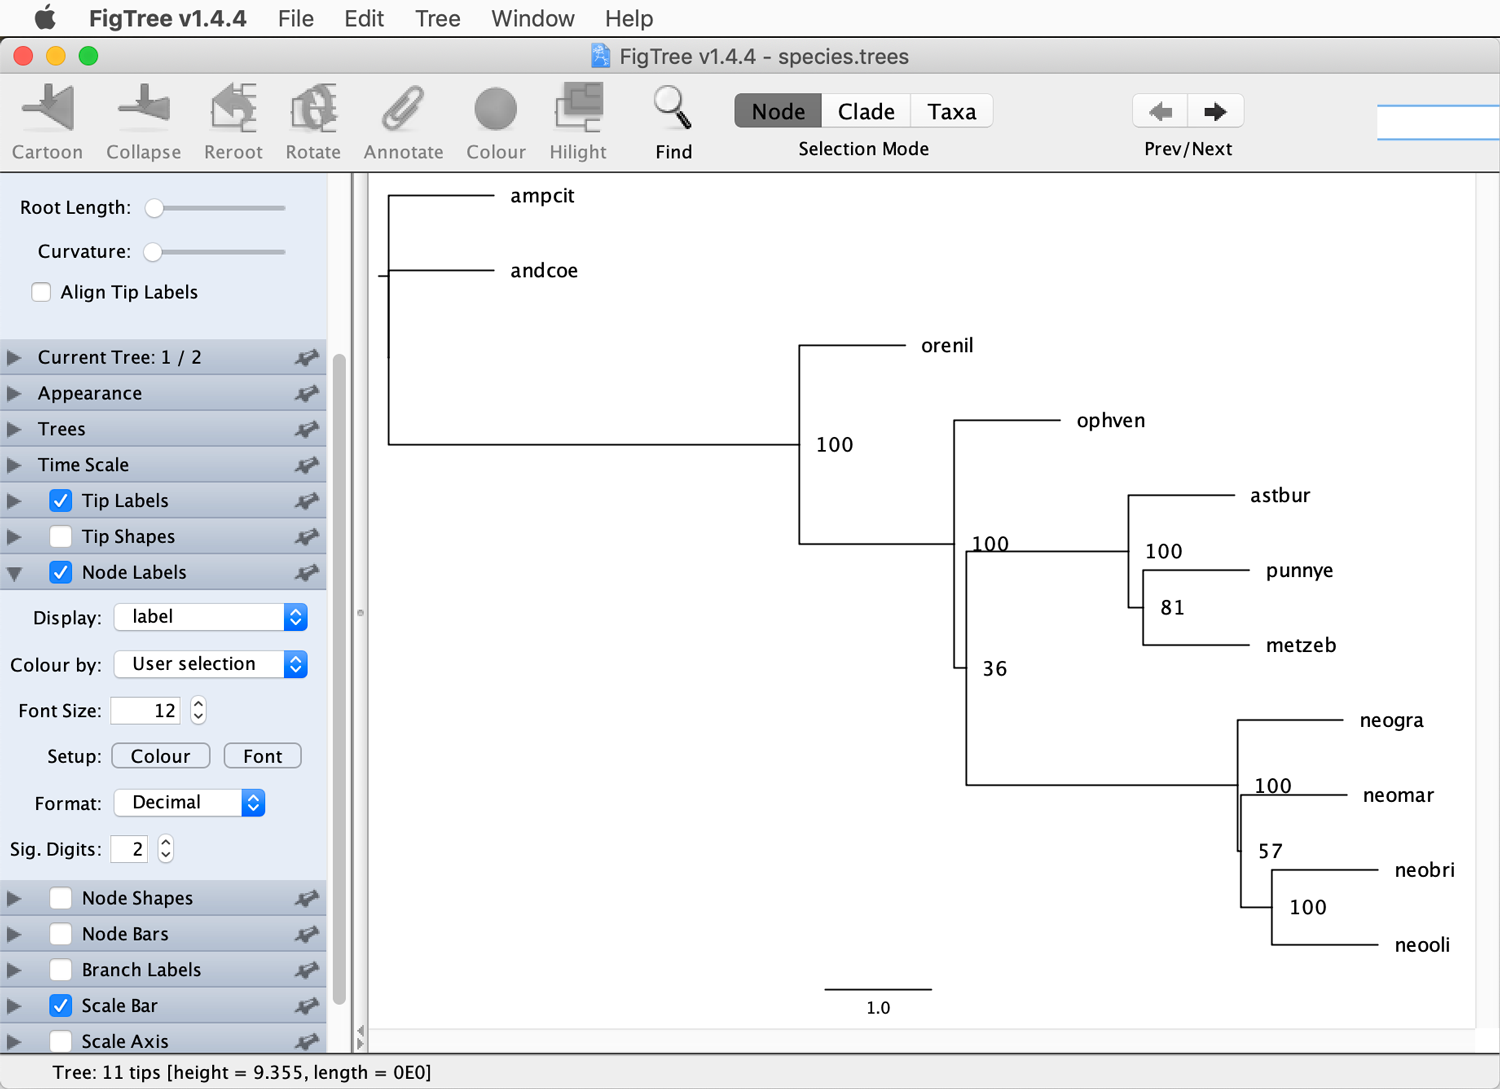
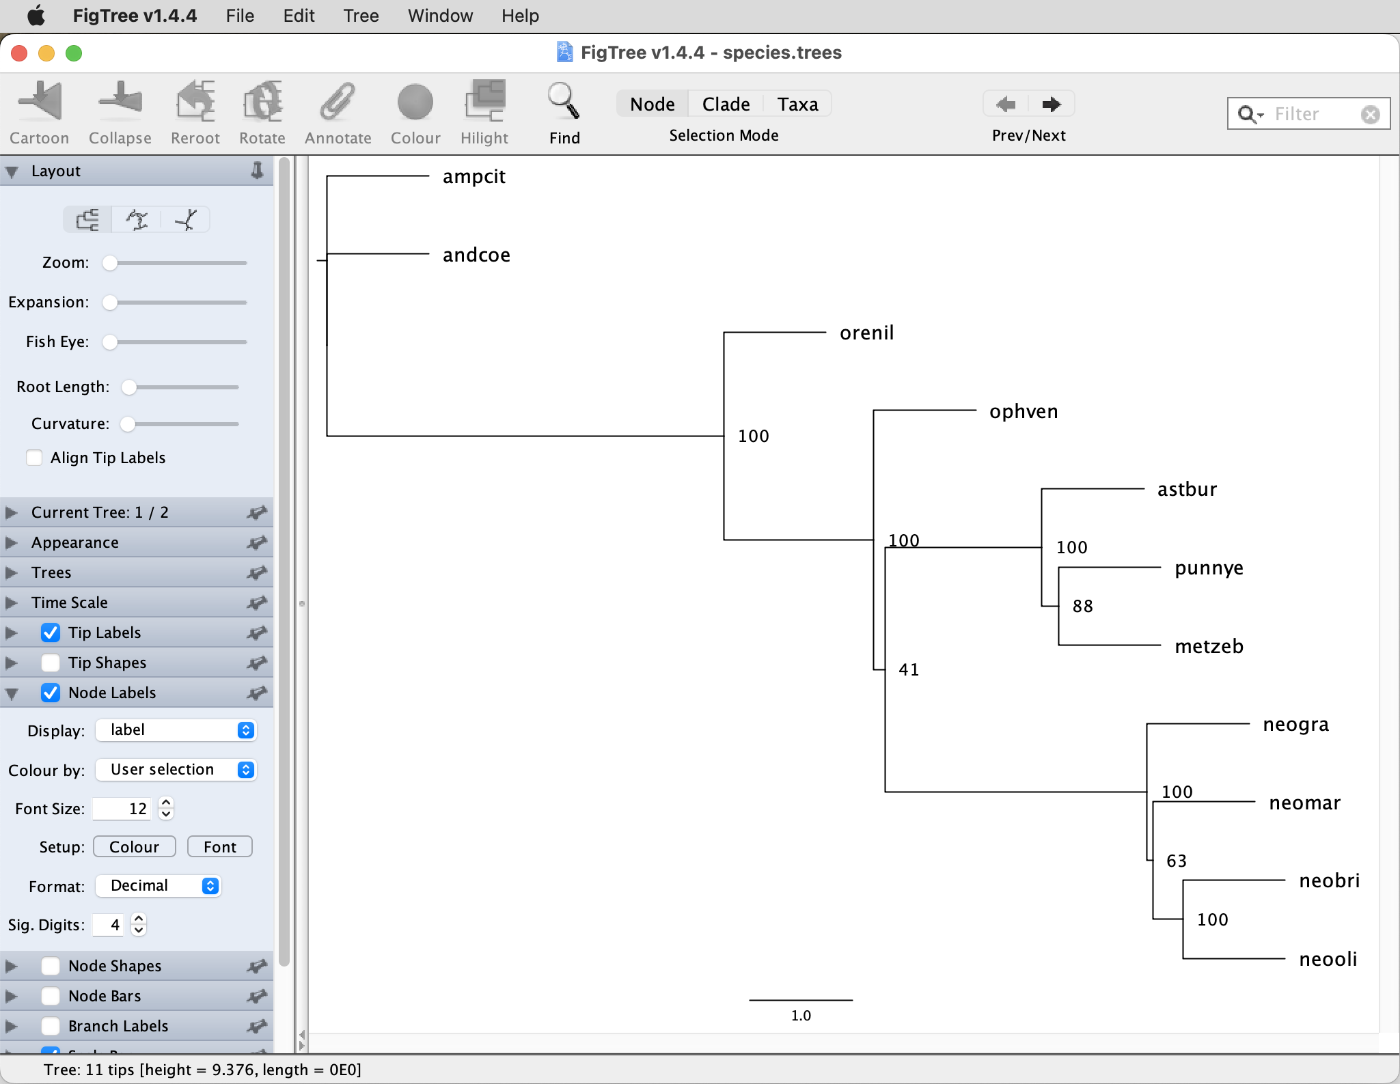
updated tutorial for ml species tree inference

diff --git a/ml_species_tree_inference/README.md b/ml_species_tree_inference/README.md
@@ -54,9 +54,9 @@ The following tool is required additionally:
 
 * **ASTRAL:** The program [ASTRAL](https://github.com/smirarab/ASTRAL) ([Zhang et al. 2017](https://doi.org/10.1007/978-3-319-67979-2_4)) allows efficient and accurate estimation of the species tree based on a set of gene trees. ASTRAL is not available as a module on Saga, but it can easily be installed simply by placing it in the analysis directory. This can be done with the following commands:
 
-		wget https://github.com/smirarab/ASTRAL/raw/master/Astral.5.7.7.zip
-		unzip Astral.5.7.7.zip
-		rm Astral.5.7.7.zip
+		wget https://github.com/smirarab/ASTRAL/raw/master/Astral.5.7.8.zip
+		unzip Astral.5.7.8.zip
+		rm Astral.5.7.8.zip
 		
 	To run ASTRAL, Java is required, and can be loaded with this command:
 	
@@ -65,7 +65,7 @@ The following tool is required additionally:
 		
 	The installation can be tested with this command, which should output the help text of ASTRAL:
 	
-		java -jar Astral/astral.5.7.7.jar
+		java -jar Astral/astral.5.7.8.jar
 
 
 <a name="iqtree"></a>
@@ -91,7 +91,7 @@ As input for the species-tree analyses with ASTRAL, sets of gene trees are requi
 		
 	**Question 1:** How many alignments contain information for *Ophthalmotilapia ventralis*? [(see answer)](#q1)
 
-Since IQ-TREE can not infer the phylogeny from an alignment in which one or more sequences consist only of missing data, we will need to remove the "ophven" sequence from all those alignments in which it contains no information. This means that *Ophthalmotilapia ventralis* will only be included in a subset of the gene trees generated with IQ-TREE; however, this will fortunately not be a problem for the species-tree inference because ASTRAL does not require that all gene trees contain the exact same set of taxa. To remove sequences that contain only missing information from all alignments, and at the same time translate all alignments into Nexus format, we can use the Python script `convert.py`.
+Since IQ-TREE cannot infer the phylogeny from an alignment in which one or more sequences consist only of missing data, we will need to remove the "ophven" sequence from all those alignments in which it contains no information. This means that *Ophthalmotilapia ventralis* will only be included in a subset of the gene trees generated with IQ-TREE; however, this will fortunately not be a problem for the species-tree inference because ASTRAL does not require that all gene trees contain the exact same set of taxa. To remove sequences that contain only missing information from all alignments, and at the same time translate all alignments into Nexus format, we can use the Python script `convert.py`.
 
 * Because the script `convert.py` was already used in the [Bayesian Phylogenetic  Inference](../bayesian_phylogeny_inference/README.md) tutorial, you probably have this script already. If not, download it from GitHub:
 
@@ -168,7 +168,7 @@ We can now use IQ-TREE to generate maximum-likelihood gene trees for all alignme
 <a name="astral"></a>
 ## Species-Tree Inference with ASTRAL
 
-ASTRAL infers the species tree by searching for the topology that agrees with the largest number of species quartets included in the set of gene trees. In addition, branch lengths are estimated in coalescent units based on the number of quartets that are in conflict with a branch of the species tree. Unlike concatenation, the species-tree approach of ASTRAL has been shown to be statistically consistent under the multi-species coalescent model ([Mirarab et al. 2014](https://doi.org/10.1093/bioinformatics/btu462)), meaning that its species-tree estimate is guaranteed to converge to the correct species tree with increasing size of the dataset. However, this statistical consistency is based on the assumption that gene-tree topologies are inferred without error, which may often not be the case. Thus, one might want to take uncertainty in the gene trees into account, which can be done with the sets of bootstrap trees for each gene. In this case, ASTRAL uses the maximum-likelihood trees to infer the species-tree topology and branch lengths, and additional analyses of the bootstrap trees are used to quantify node support as the proportions of these trees supporting a given node. However, newer versions of ASTRAL are also able to quantify node support completely without bootstrapped trees, based on the maximum-likelihood gene trees alone. Thus, uncertainty in the gene trees is then not taken into account at all. Nevertheless, according to the authors ([Sayyari and Mirarab 2016](https://doi.org/10.1093/molbev/msw079)), simulations have shown that this approach works just as well as or even better than the first approach based on bootstrapped trees. Here, we will test both approaches for quantifying node support with ASTRAL.
+ASTRAL infers the species tree by searching for the topology that agrees with the largest number of species quartets included in the set of gene trees. In addition, branch lengths are estimated in coalescent units based on the number of quartets that are in conflict with a branch of the species tree. Unlike concatenation, the species-tree approach of ASTRAL has been shown to be statistically consistent under the multi-species coalescent model ([Mirarab et al. 2014](https://doi.org/10.1093/bioinformatics/btu462)), meaning that its species-tree estimate is guaranteed to converge to the correct species tree with increasing size of the dataset. However, this statistical consistency is based on the assumption that gene-tree topologies are inferred without error, which may often not be the case. Thus, one might want to take uncertainty in the gene trees into account, which can be done with the sets of bootstrap trees for each gene. In this case, ASTRAL uses the maximum-likelihood trees to infer the species-tree topology and branch lengths, and additional analyses of the bootstrap trees are used to quantify node support as the proportions of these trees supporting a given node. However, ASTRAL is also able to quantify node support completely without bootstrapped trees, based on the maximum-likelihood gene trees alone. Thus, uncertainty in the gene trees is then not taken into account at all. Nevertheless, simulations have shown that this approach works just as well as or even better than the first approach based on bootstrapped trees ([Sayyari and Mirarab 2016](https://doi.org/10.1093/molbev/msw079)). Here, we will test both approaches for quantifying node support with ASTRAL.
 
 * We'll first use the set of bootstrapped trees to estimate node support on the species tree. To do so, ASTRAL requires as input a single file with the names of all the files containing bootstrapped trees. We can generate such a file with the following command:
 
@@ -177,7 +177,7 @@ ASTRAL infers the species tree by searching for the topology that agrees with th
 * We can then run ASTRAL with two input files: The file containing the maximum-likelihood trees for each gene (`ml_best.trees`), and the file containing the names of all files with bootstrapped trees (`ml_boot.txt`). The first of these is to be specified with ASTRAL's option `-i`, and the second should be given with option `-b`. In addition, we'll use option `-o` to set the name of the output file to `species_boot.trees`:
 
 		module load Java/11.0.2
-		srun --ntasks=1 --mem-per-cpu=1G --time=00:01:00 --account=nn9458k --pty java -jar Astral/astral.5.7.7.jar -i ml_best.trees -b ml_boot.txt -o species_boot.trees
+		srun --ntasks=1 --mem-per-cpu=1G --time=00:01:00 --account=nn9458k --pty java -jar Astral/astral.5.7.8.jar -i ml_best.trees -b ml_boot.txt -o species_boot.trees
 		
 	ASTRAL should finish this analysis within a few seconds.
 
@@ -195,7 +195,7 @@ ASTRAL infers the species tree by searching for the topology that agrees with th
 
 * However, before visualizing the species tree in FigTree, first conduct the second ASTRAL analysis based on the maximum-likelihood trees alone. Do so using the following command:
 
-		srun --ntasks=1 --mem-per-cpu=1G --time=00:01:00 --account=nn9458k --pty java -jar Astral/astral.5.7.7.jar -i ml_best.trees -o species_pp.tre
+		srun --ntasks=1 --mem-per-cpu=1G --time=00:01:00 --account=nn9458k --pty java -jar Astral/astral.5.7.8.jar -i ml_best.trees -o species_pp.tre
 		
 	The output file named `species_pp.tre` now contains just a single species tree, annotated with posterior probabilities as node support.
 	
@@ -204,9 +204,11 @@ ASTRAL infers the species tree by searching for the topology that agrees with th
 		tail -n 1 species_boot.trees > species.trees
 		cat species_pp.tre >> species.trees
 		
-* Download the file `species.trees` to your local computer with `scp` and open it in FigTree. When prompted that "The node/branches of the tree are labelled", justclick "OK". This will mean that the  node support values are referred to as "label" in FigTree. Click on "Decreasing Node Order" in the "Tree" menu to orient the tree, set a tick next to "Node Labels", click the triangle next to "Node Labels", and then select "label" from the drop-down menu next to "Display:" to display support values as node labels. The FigTree window should then appear more or less as shown in the next screenshot. Note that depending on the randomly chosen starting points of the IQ-TREE analyses, slightly different gene trees may have been generated in your analysis and may also have led to a species tree that is not exactly identical to the one shown here.<p align="center"><img src="img/figtree1.png" alt="FigTree" width="700"></p>
+* Download the file `species.trees` to your local computer with `scp` and open it in FigTree. When prompted that "The node/branches of the tree are labelled", just click "OK". This will mean that the  node support values are referred to as "label" in FigTree. Click on "Decreasing Node Order" in the "Tree" menu to orient the tree, set a tick next to "Node Labels", click the triangle next to "Node Labels", and then select "label" from the drop-down menu next to "Display:" to display support values as node labels. The FigTree window should then appear more or less as shown in the next screenshot. Note that depending on the randomly chosen starting points of the IQ-TREE analyses, slightly different gene trees may have been generated in your analysis and may also have led to a species tree that is not exactly identical to the one shown here.<p align="center"><img src="img/figtree1.png" alt="FigTree" width="700"></p>
 
 * As you can see in the top left of the window next to "Current Tree:", the displayed tree is the first out of two. The one shown in the screenshot above is the tree with node-support values based on bootstrapping. To see the next tree, click on the "Next" button near the top right of the window. This should display the tree with node-support values based only on the maximum-likelihood gene trees, as shown in the next screenshot.<p align="center"><img src="img/figtree2.png" alt="FigTree" width="700"></p>Unsurprisingly, the phylogeny itself is identical between the two trees, because the species tree is in both cases inferred from the maximum-likelihood gene trees. Perhaps more surprisingly, the node-support values correlate very strongly between the two trees, indicating that ASTRAL in fact does not require bootstrapping to estimate node support.
+
+* Place the root of the tree between the two Neotropical cichlid fishes (*Amphilophus citrinellus*, "ampcit", and *Andinoacara coeruleopunctatus*, "andcoe") and the African cichlids (all other species) by selecting the branch connecting the two groups and clicking on "Root on Branch..." in FigTree's "Tree" menu (or the "Reroot icon). The tree should then look as shown below.<p align="center"><img src="img/figtree3.png" alt="FigTree" width="700"></p>
 
 	**Question 2:** Do the taxonomic groups of cichlids, as listed in the table at the beginning of this tutorial, appear monophyletic in the species tree estimated by ASTRAL? [(see answer)](#q2)
 
@@ -222,9 +224,9 @@ Recent versions of IQ-TREE (from v.1.7) ([Minh et al. 2020](https://doi.org/10.1
 
 	The IQ-TREE output should report that a tree with concordance factors was written to file `gene_concordance.cf.tree`.
 	
-* Download file `gene_concordance.cf.tree` with `scp`, open it in FigTree, orient the tree, and select "label" to display as node labels. The tree should then appear as shown in the next screenshot.<p align="center"><img src="img/figtree3.png" alt="FigTree" width="700"></p>
+* Download file `gene_concordance.cf.tree` with `scp`, open it in FigTree, orient and root the tree, and select "label" to display as node labels. The tree should then appear as shown in the next screenshot.<p align="center"><img src="img/figtree4.png" alt="FigTree" width="700"></p>
 
-	You'll see that two types of support values are shown for each node, separated by forward slashes. The first of these values are familiar, these are the posterior probabilities that were calculated by ASTRAL when we ran it with the maximum-likelihood gene trees alone instead of using the bootstrap trees. Thus, these values do not result from the concordance analysis with IQ-TREE, but they are shown because IQ-TREE found them in the reference-tree file `species_pp.tre`. The values after the forward slashes, however, are the gene-concordance factors calculated by IQ-TREE from the set of gene trees in file `ml_best.trees`. As you can see the gCF values appear to correlate with ASTRAL's posterior probabilities but are generally lower. For example, it appears that only about 40% of the gene trees support the sister-group relationship between *Neolamprologus brichardi* ("neobri") and *Neolamprologus olivaceous* ("neooli") even though ASTRAL estimated the posterior probability of this relationship close to 1. This is not necessarily a contradiction, though, because incomplete lineage sorting, which is accounted for by ASTRAL, is expected to lead to disagreement between the species tree and gene trees particularly for rapidly diverging species.
+	You'll see that two types of support values are shown for each node, separated by a forward slash. The first of these values are familiar, these are the posterior probabilities that were calculated by ASTRAL when we ran it with the maximum-likelihood gene trees alone instead of using the bootstrap trees. Thus, these values do not result from the concordance analysis with IQ-TREE, but they are shown because IQ-TREE found them in the reference-tree file `species_pp.tre`. The values after the forward slashes, however, are the gene-concordance factors calculated by IQ-TREE from the set of gene trees in file `ml_best.trees`. As you can see the gCF values appear to correlate with ASTRAL's posterior probabilities but are generally lower. For example, it appears that only about 40% of the gene trees support the sister-group relationship between *Neolamprologus brichardi* ("neobri") and *Neolamprologus olivaceous* ("neooli") even though ASTRAL estimated the posterior probability of this relationship close to 1. This is not necessarily a contradiction, though, because incomplete lineage sorting, which is accounted for by ASTRAL, is expected to lead to disagreement between the species tree and gene trees particularly for rapidly diverging species.
 	
 * To also calculate site-concordance factors, we'll first need to generate a concatenated version of all gene alignments. We can do that with the Ruby script `concatenate.rb`, which you probably already used in another tutorial. If not, download it from GitHub:
 
@@ -247,11 +249,37 @@ Recent versions of IQ-TREE (from v.1.7) ([Minh et al. 2020](https://doi.org/10.1
 
 		srun --ntasks=1 --mem-per-cpu=1G --time=00:01:00 --account=nn9458k --pty iqtree2 -t species_pp.tre --gcf ml_best.trees -s 72_genes.nex --scf 100 --prefix gene_and_site_concordance
 
-* Download file `gene_and_site_concordance.cf.tree` and open it in FigTree. Again orient the tree and select "label" to display as node labels. The tree should then appear as shown in the next screenshot.<p align="center"><img src="img/figtree4.png" alt="FigTree" width="700"></p>
+* Download file `gene_and_site_concordance.cf.tree` and open it in FigTree. Again orient and root the tree and select "label" to display as node labels. The tree should then appear as shown in the next screenshot.<p align="center"><img src="img/figtree5.png" alt="FigTree" width="700"></p>
 
 	You'll see that three different support values are now shown for each node, these are the posterior probabilities from ASTRAL, the gene-concordance factors, and the site-concordance factors.  
 	
 	**Question 4:** Which proportion of sites supports the monophyly of Lamprologini? [(see answer)](#q4)
+
+Finally, we could try a very recent update of IQ-TREE's site-concordance factors, that was implemented in IQ-TREE version 2.2.2. According to a preprint by the IQ-TREE authors ([Mo et al. 2022](https://www.biorxiv.org/content/10.1101/2022.09.26.509549v1)), this implementation makes site-concordance factors more robust to homoplasies. This is achieved through maximum-likelihood estimation of the ancestral states at internal nodes, so that site-concordance factors of more ancestral nodes can then be calculated based on these reconstructed states instead of those found at the tips at the phylogeny.
+
+* As this latest update of IQ-TREE is only available as a pre-release version and is not yet installed as a module on Saga, we will have to download it ourselves. Fortunately, the installation is very easy. Use the following command to download this version into your working directory on Saga:
+
+		wget https://github.com/iqtree/iqtree2/releases/download/v2.2.2/iqtree-2.2.2-Linux.tar.gz
+		
+* Uncompress the downloaded file with `tar`:
+
+		tar -xzf iqtree-2.2.2-Linux.tar.gz
+
+* Execute this command to calculate the new site concordance factors, in which `iqtree-2.2.2-Linux/bin/iqtree2` is called instead of `iqtree2`, the new version of site-concordance factors is calculated with `--scfl` instead of `--scf`, and the prefix `gene_and_new_site_concordance` is used:
+
+		srun --ntasks=1 --mem-per-cpu=1G --time=00:01:00 --account=nn9458k --pty iqtree-2.2.2-Linux/bin/iqtree2 -t species_pp.tre -s 72_genes.nex --scfl 100 --prefix new_site_concordance
+
+	Note that gene-concordance factors are now not calculated simultaneously, because this is not possible in combination with the new version of the site-concordance factors (and because we already know them anyway).
+	
+* Download the tre file `new_site_concordance.cf.tree` from Saga to your own computer.
+
+* Open file `new_site_concordance.cf.tree ` in FigTree. Again orient and root it, and select "label" to display as node labels. The tree will then probably look as shown in the next screenshot.<p align="center"><img src="img/figtree6.png" alt="FigTree" width="700"></p>
+
+	**Question 5:** Why have the branch lengths changed? [(see answer)](#q5)
+	
+	The first parts of the node labels are again the posterior probabilities from ASTRAL, but the values after the forward slashes are now the new site-concordance factors. By comparing these to the standard site-concordance factors that we calculated before, you should see that the new site-concordance factors are in almost all cases larger.
+
+
 
 <br><hr>
 
@@ -265,7 +293,7 @@ Recent versions of IQ-TREE (from v.1.7) ([Minh et al. 2020](https://doi.org/10.1
 
 <a name="q2"></a>
 
-* **Question 2:** In fact, all tribes appear monophyletic in the ASTRAL species tree, and so do Neotropical cichlids (comprising *Amphilophus citrinellus*, "ampcit", and *Andinoacara coeruleopunctatus*, "andcoe") as well as African cichlids (all remaining species). However, the ASTRAL species tree does not answer whether or not *Ophthalmotilapia ventralis* ("ophven") is the sister group to Haplochromini plus Lamprologini, or whether it is closer to one of the two tribes. Adding further sequence data for *Ophthalmotilapia ventralis*, for which only twelve gene sequences were used for the analysis, would probably help to infer its position more reliably. The species tree further supports a nested position of Lake Malawi and Lake Victoria species (*Metriaclima zebra*, "metzeb", and *Pundamilia nyererei*, "punnye", respectively) within the Lake Tanganyika radiation, a pattern that has long been known ([Salzburger et al. 2005](https://doi.org/10.1186/1471-2148-5-17)).
+* **Question 2:** In fact, all tribes appear monophyletic in the ASTRAL species tree, and so do Neotropical cichlids (comprising *Amphilophus citrinellus*, "ampcit", and *Andinoacara coeruleopunctatus*, "andcoe") as well as African cichlids (all remaining species). However, the ASTRAL species tree does not clearly answer whether or not *Ophthalmotilapia ventralis* ("ophven") is the sister group to Haplochromini plus Lamprologini, or whether it is closer to one of the two tribes. Adding further sequence data for *Ophthalmotilapia ventralis*, for which only twelve gene sequences were used for the analysis, would probably help to infer its position more reliably. The species tree further supports a nested position of Lake Malawi and Lake Victoria species (*Metriaclima zebra*, "metzeb", and *Pundamilia nyererei*, "punnye", respectively) within the Lake Tanganyika radiation, a pattern that has long been known ([Salzburger et al. 2005](https://doi.org/10.1186/1471-2148-5-17)).
 
 <a name="q3"></a>
 
@@ -274,3 +302,7 @@ Recent versions of IQ-TREE (from v.1.7) ([Minh et al. 2020](https://doi.org/10.1
 <a name="q4"></a>
 
 * **Question 4:** As shown in the table at the beginning of this tutorial, the tribe called Lamprologini is in our dataset represented by four species: *Neolamprologus brichardi* ("neobri"), *Neolamprologus marunguensis* ("neomar"), *Neolamprologus gracilis* ("neogra"), and *Neolamprologus olivaceous* ("neooli"). The most ancestral node among the four species has the label "1/91.7/94.3", meaning that 91.7% of the gene trees (66 of the 72 trees) and 94.3% of the alignment sites support this node.
+
+<a name="q5"></a>
+
+* **Question 5:** To perform the maximum-likelihood estimation of ancestral states, IQ-TREE re-estimated all branch lengths. The tree topology, however, was constrained to be that of the input tree in file `species_pp.tre`.
